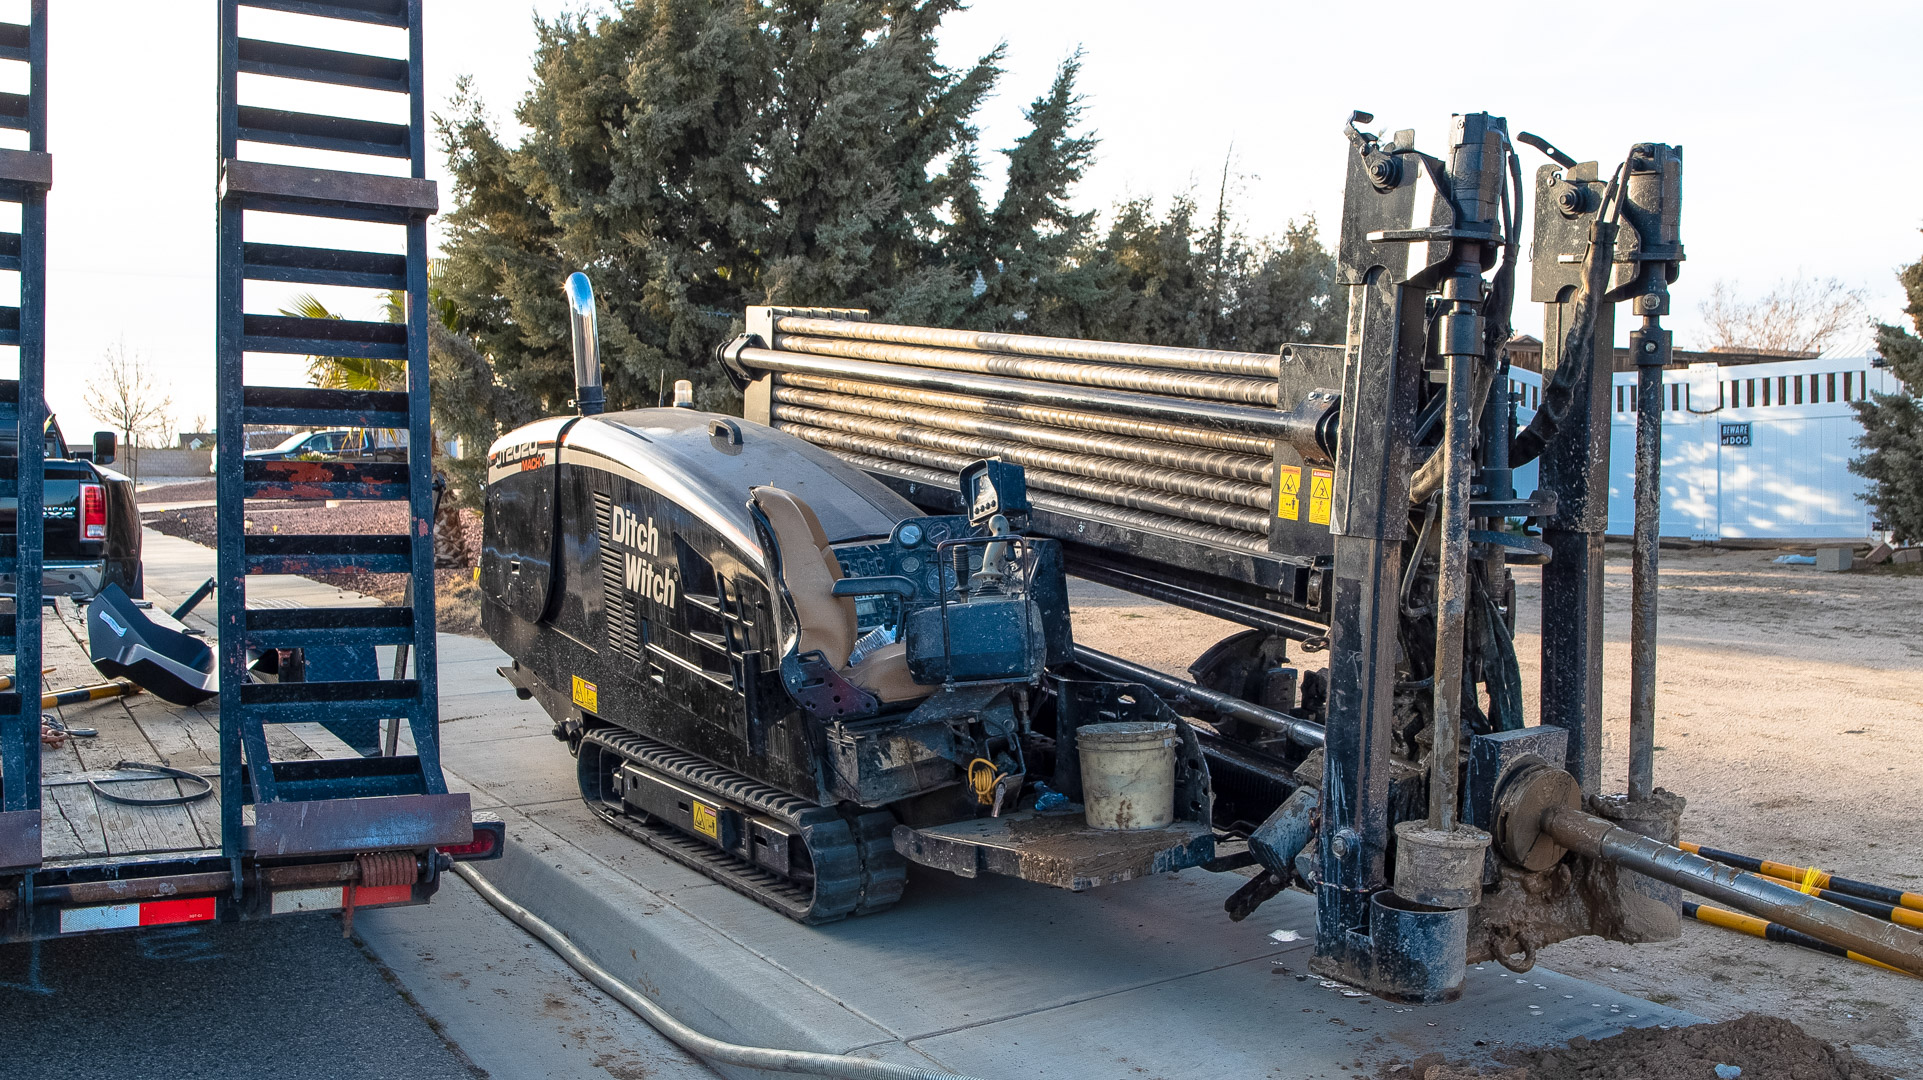
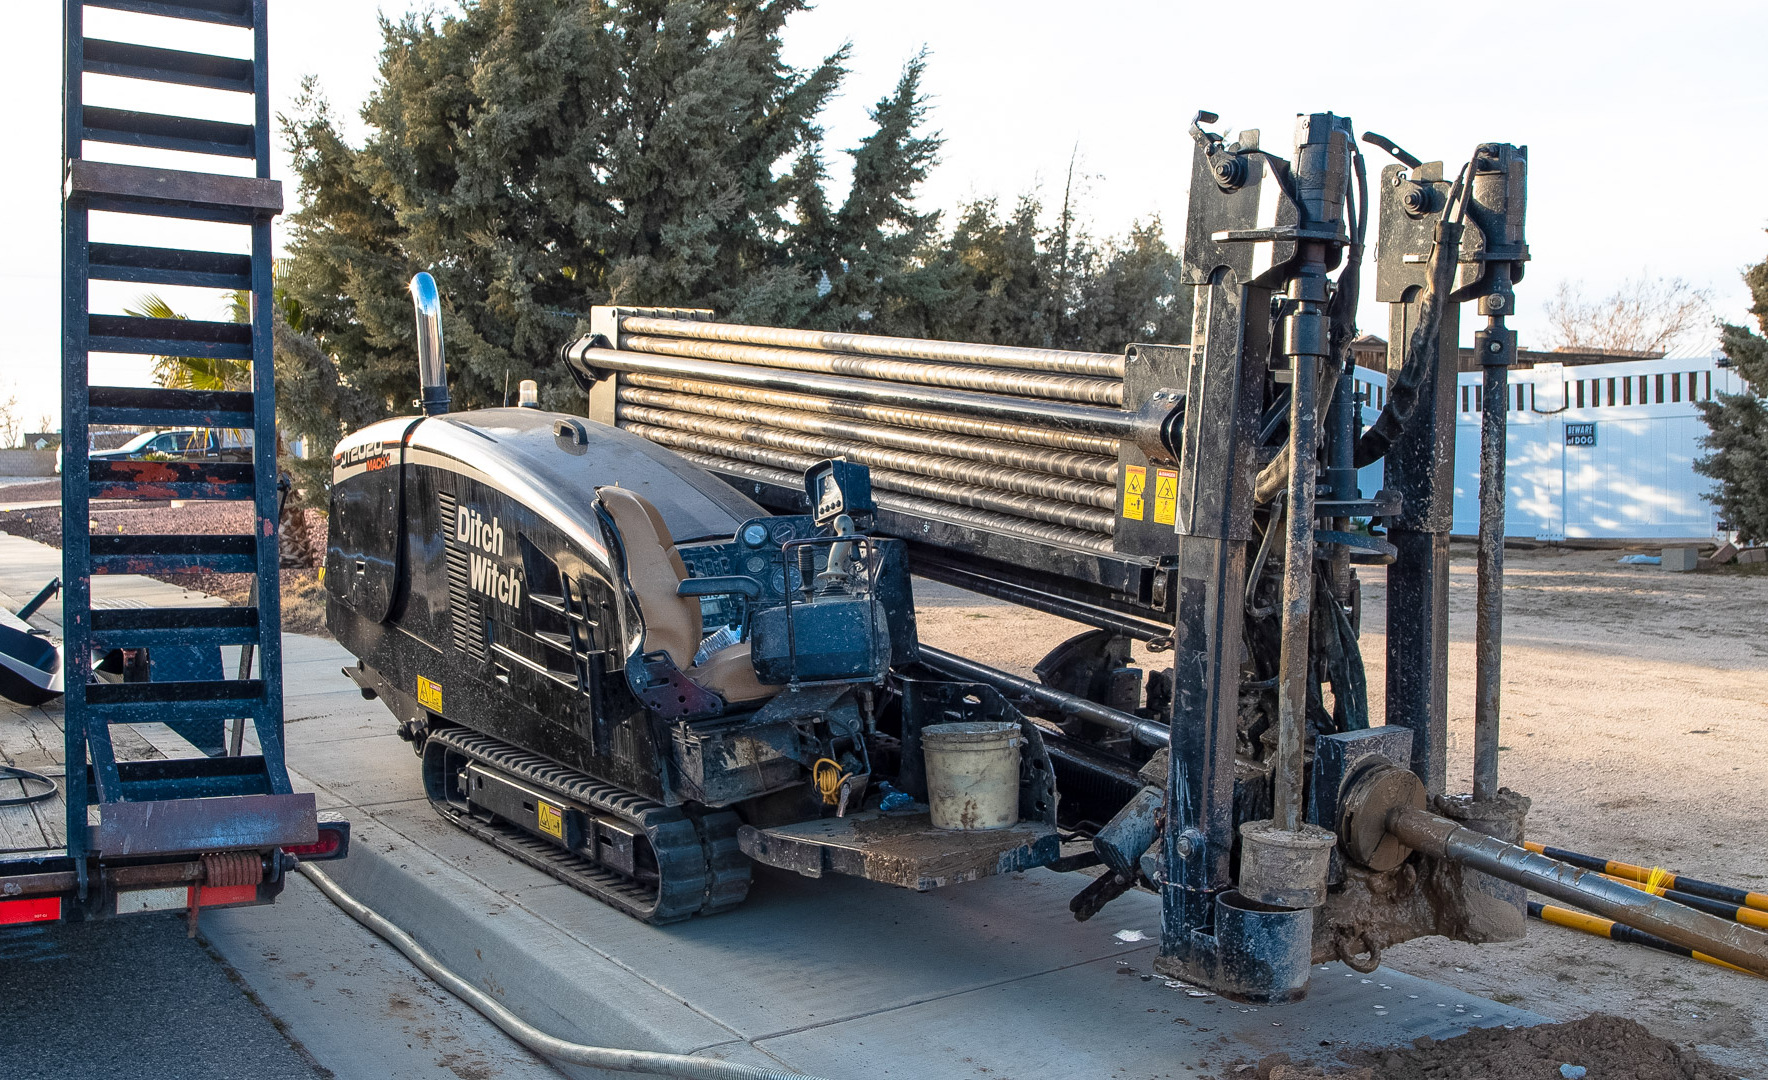
UPD: Remove car img

diff --git a/contact.html b/contact.html
@@ -127,9 +127,7 @@
                                     <br />
                                     Contact us for personalized support and discover how we can meet your needs.
                                 </p>
-
-                                <iframe src="https://www.google.com/maps/embed?pb=!1m18!1m12!1m3!1d26393.03715110171!2d-117.40357636801609!3d34.21970797309439!2m3!1f0!2f0!3f0!3m2!1i1024!2i768!4f13.1!3m3!1m2!1s0x80c34feae2d5f227%3A0x2774185d433a544c!2s4227%20W%20Meyers%20Rd%2C%20San%20Bernardino%2C%20CA%2092407%2C%20USA!5e0!3m2!1sen!2smx!4v1701041860846!5m2!1sen!2smx" width="800" height="600" style="border:0;" allowfullscreen="" loading="lazy" referrerpolicy="no-referrer-when-downgrade"></iframe>
-
+								<iframe src="https://www.google.com/maps/embed?pb=!1m18!1m12!1m3!1d6512730.830196381!2d-124.5907190991305!3d37.151644927629775!2m3!1f0!2f0!3f0!3m2!1i1024!2i768!4f13.1!3m3!1m2!1s0x808fb9fe5f285e3d%3A0x8b5109a227086f55!2sCalifornia%2C%20USA!5e0!3m2!1sen!2smx!4v1701142855378!5m2!1sen!2smx" width="600" height="450" style="border:0;" allowfullscreen="" loading="lazy" referrerpolicy="no-referrer-when-downgrade"></iframe>
                             </div>
                             <div class="col-lg-5">
                                 <div class="card bg-contrast-0 rounded-0 border-0 shadow">

diff --git a/css/custom.css b/css/custom.css
@@ -420,6 +420,10 @@
 }
 
 @media screen and (max-width: 991px) {
+	.slider-thumbs .swiper-slide {
+		height: 53px !important;
+	}
+
 	.menu-item:hover > .menu-link {
 		color: #C3C0DA;
 	}
